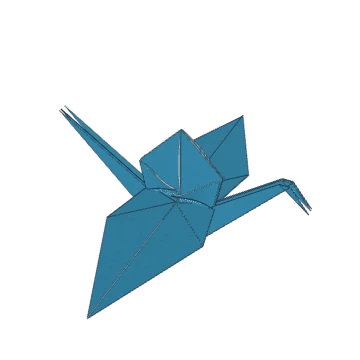
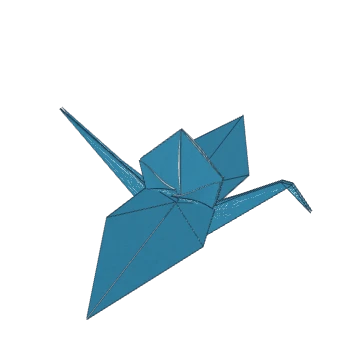
학: 목·꼬리 겹을 눌러 한 장처럼(머리가 여러 개로 보이지 않게, 날개는 제외), 공용 동작 가라앉히기(sink) 추가

diff --git a/src/models/crane.js b/src/models/crane.js
@@ -47,7 +47,10 @@ const puff = (p, e) => {
   // 날개가 붙는 선(y≈-0.207) 위쪽 등만 부풀린다. 그 아래에는 목·꼬리 밑동이 있어 밀면 겹이 부채처럼 벌어진다
   const fy = y < 0 && y > -0.2 ? Math.sin((Math.PI * -y) / 0.2) : 0;
   const s = Math.max(-1, Math.min(1, z / 0.019)); // 0.019 = 몸통 바깥 겹 높이
-  return [x, y, z + 0.09 * e * fx * fy * s];
+  // 목·꼬리(몸통 바깥쪽, 날개가 붙는 선 아래)는 겹 사이를 눌러 한 장처럼 보이게 한다 (겹마다 따로 보이면 머리가 여러 개처럼 보인다)
+  const sm = (a, b, v) => { const k = Math.min(1, Math.max(0, (v - a) / (b - a))); return k * k * (3 - 2 * k); };
+  const w = Math.max(sm(0.11, 0.16, Math.abs(x)), sm(-0.2, -0.24, y)) * (1 - sm(0.03, 0.06, Math.abs(z))) * e; // 펼친 날개(|z| 큼)는 제외
+  return [x, y, z * (1 - 0.6 * w) + 0.09 * e * fx * fy * s];
 };
 export const crane = {
   id: 'crane',

diff --git a/src/models/parts/folds.js b/src/models/parts/folds.js
@@ -103,3 +103,11 @@ export const reverseFold = ({ line, grab, side = grab, spine, kind = 'inside', f
     { ...base, toward: -t }, // 앞 겹이 넘어간 뒤 남은 겹 = 뒤 절반
   ];
 };
+
+// 가라앉히기(sink): 여러 날개가 모인 꼭짓점을 선 line 에서 안으로 밀어 넣는다.
+// 끝 상태는 그 점의 모든 겹을 line 에서 접되, 앞 절반 겹은 뒤로·뒤 절반 겹은 앞으로 접은 것과 같다.
+// grab: 가라앉힐 꼭짓점 쪽의 점. 복합 단계(sim: true)의 moves 로 쓴다. 사각 기본형 꼭대기에서 끊김 없음 확인
+export const sink = ({ line, grab, filter, tag = 'sink' }) => [
+  { line, side: grab, grab, layers: 'all', half: 'front', toward: -1, filter, tag },
+  { line, side: grab, grab, layers: 'all', toward: 1, filter, tag },
+];

diff --git a/CLAUDE.md b/CLAUDE.md
@@ -110,6 +110,7 @@ GitHub `jinsyu/origami` → Vercel 자동 배포 (main 푸시 = 배포). 빌드 
 - 공용 동작(`parts/folds.js`):
   - `pleat({ a, far, width, sel, toward })`: 계단 접기. 선 a 에서 골짜기, far 쪽으로 width 떨어진 선에서 산. 복합 단계 moves.
   - `crimp({ a, far, width, front, back })`: 반으로 접힌 날개를 앞뒤 대칭 계단으로 꺾기.
+  - `sink({ line, grab })`: 가라앉히기. 꼭짓점의 모든 겹을 앞 절반은 뒤로·뒤 절반은 앞으로 접는다.
   - `reverseFold({ line, grab, spine, kind: 'inside'|'outside', filter })`: 잡는 점 하나로 뒤집어 접기 (grab+half). 학 18·19단계와 결과 동일 확인. grab 점은 날개의 모든 겹을 덮는 곳이어야 한다 (가늘게 접은 끝 쪽은 겹이 빠질 수 있음).
 - swing (뒤집어 접기가 들어간 복합 단계의 기본 움직임, 끄려면 단계에 `swing: false`): 겹을 책처럼 벌리는 대신 날개를 평면 안에서 돌리며 앞뒤 겹이 등선 쪽으로 좁아졌다 자리를 바꾸게 보여 준다. 접는 도중 안쪽 흰 면이 드러나 '색이 뒤바뀐 것처럼' 보이는 문제를 없앤다. 끝 상태는 같다. 학·고래·오리·두루미·게의 뒤집어 접기에 적용 (비교 렌더로 나빠지는 곳 없음 확인).
 - `seam: true`: 접지 않고(angle: 0) 조각만 나눌 때 쓴다. 평평한 동안에는 선을 그리지 않고, 나중에 실제로 꺾이면 접힌 선으로 그린다 (토끼 귀 접기에서 가운데 세로선).
